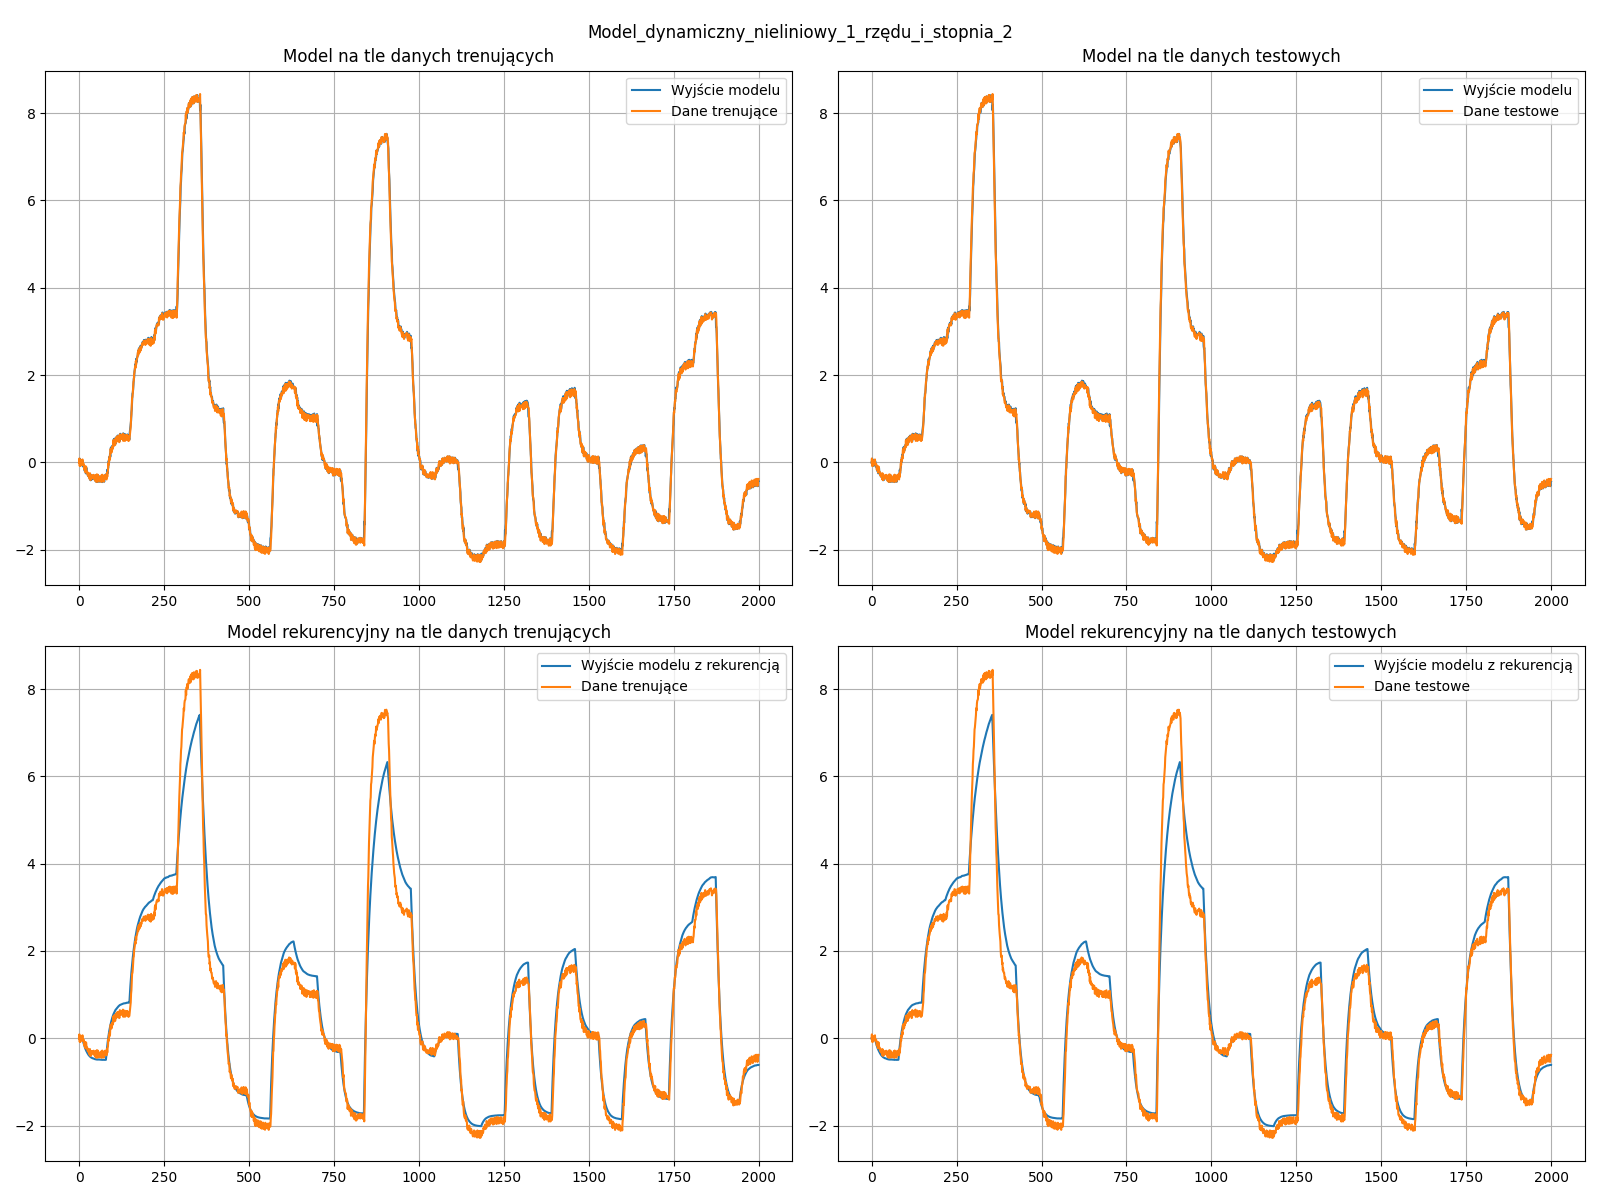
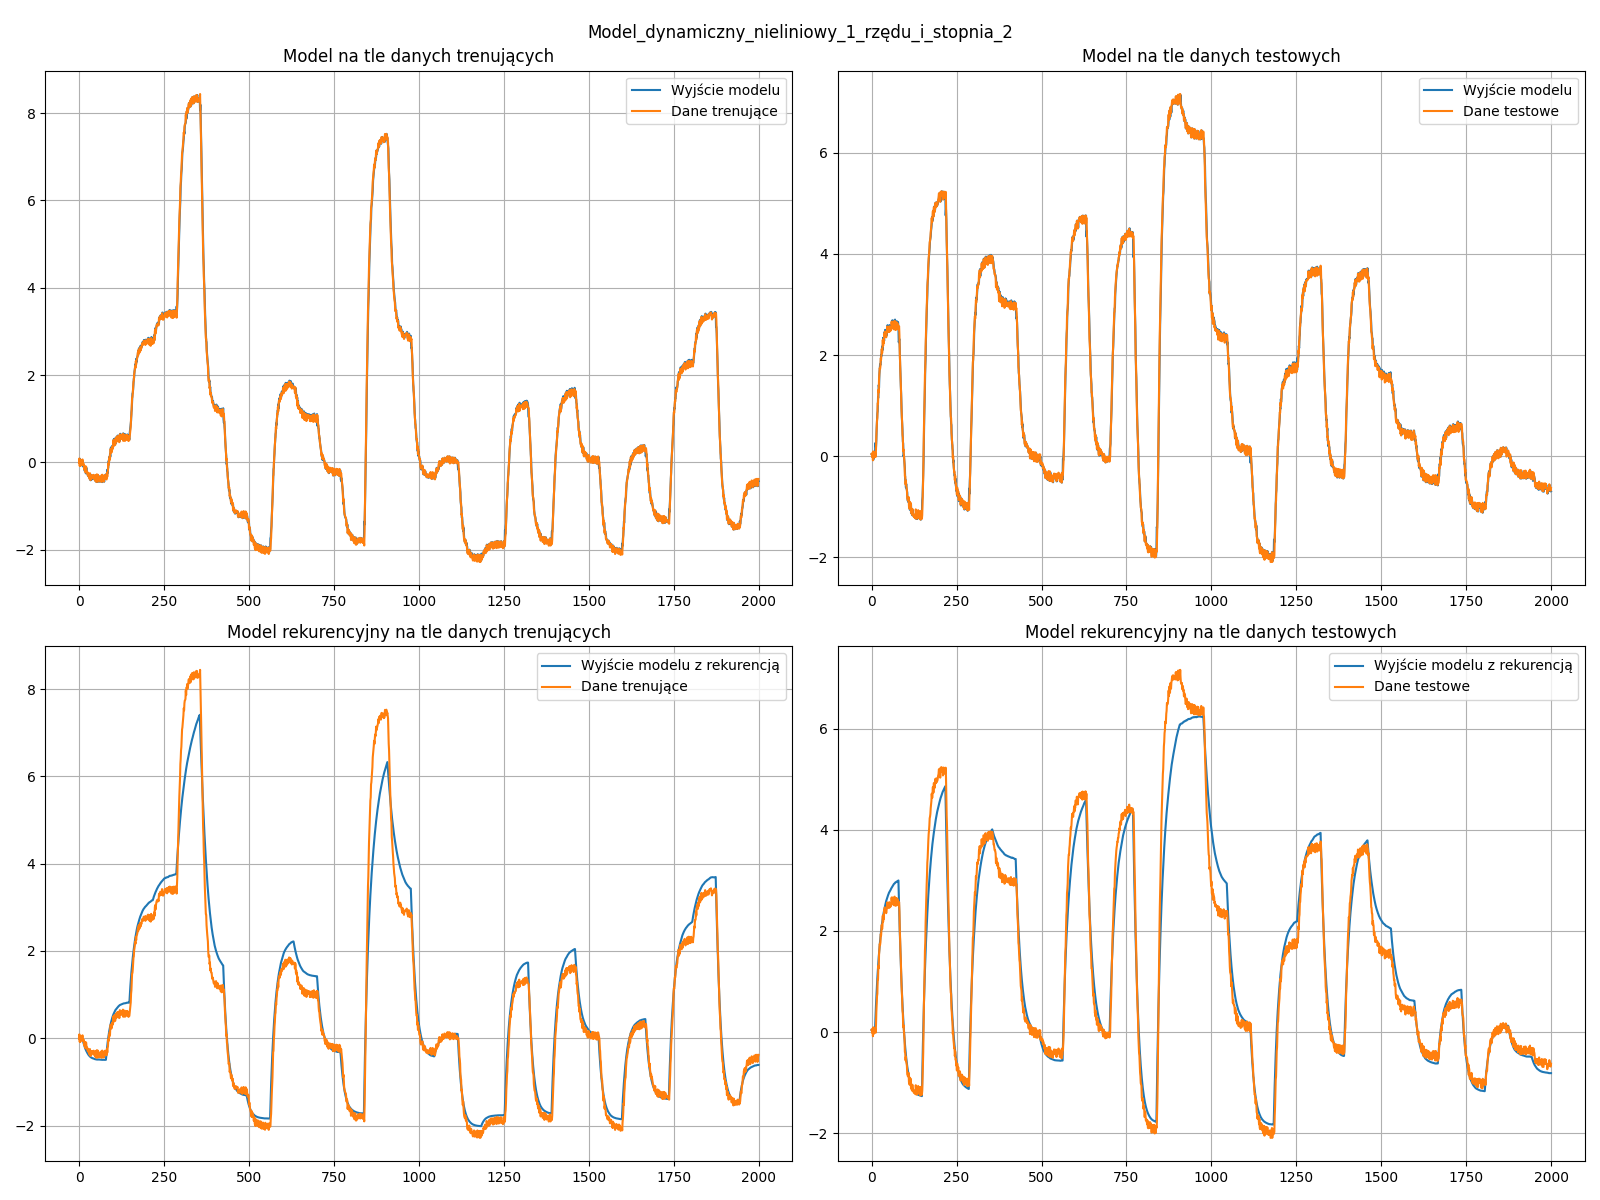
Final version

diff --git a/dodkeras.py b/dodkeras.py
@@ -1,0 +1,80 @@
+from tensorflow.keras.models import Sequential
+from tensorflow.keras.layers import Input, Dense, SimpleRNN, LSTM, LeakyReLU
+from tensorflow.keras.optimizers import Adam
+import numpy as np
+import pandas as pd
+import matplotlib.pyplot as plt
+
+
+
+def create_data(N, data_type, recursive):
+    train_data = pd.read_csv('data/danedynucz18.txt', delimiter=r"\s+", header=None, names=['U', 'Y'])
+    test_data = pd.read_csv('data/danedynwer18.txt', delimiter=r"\s+", header=None, names=['U', 'Y'])
+    data = train_data if data_type else test_data
+    data = np.array(data)
+    input_data = []
+    output_data = []
+    for i in range(N-1, len(data[:, 0])):
+        row = []
+        for j in range(1, N):
+            row.append(data[i - j, 0])  # U data
+            row.append(data[i - j, 1])  # Y data
+        input_data.append(row)
+        output_data.append(data[i, 1])  # Current Y
+    input_data = np.array(input_data)
+    if recursive:
+        input_data = input_data.reshape((input_data.shape[0], N-1, 2))
+    return input_data, np.array(output_data)
+
+def create_model(recursive, k, N):
+    model = Sequential()
+    input_layer = LSTM(k, input_shape=(N-1, 2), activation='leaky_relu') if recursive else Dense(k, input_dim=2 * (N - 1), activation='leaky_relu')
+    model.add(input_layer)
+    model.add(Dense(1, activation='leaky_relu'))
+    return model
+
+
+def neural_network(N, k, recursive):
+    train_data = pd.read_csv('data/danedynucz18.txt', delimiter=r"\s+", header=None, names=['U', 'Y'])
+    test_data = pd.read_csv('data/danedynwer18.txt', delimiter=r"\s+", header=None, names=['U', 'Y'])
+    input_data, output_data = create_data(N, True, recursive)
+    # Model creation
+    model = create_model(recursive, k, N)
+
+    model.compile(optimizer='adam', loss='mean_squared_error')
+    model.fit(input_data, output_data, epochs=100)
+
+    input_data_test, output_data_test = create_data(N, False, recursive)
+
+    predictions_train = model.predict(input_data)
+    predictions_test = model.predict(input_data_test)
+
+    predictions_train = predictions_train.flatten()
+    predictions_test = predictions_test.flatten()
+
+    epsilon_train = round(np.sum((output_data - predictions_train)**2), 3)
+    epsilon_test = round(np.sum((output_data_test - predictions_test)**2), 3)
+
+    recursive_str = 'z rekurencją' if recursive else 'bez rekurencji'
+    plt.figure(figsize=(12, 6))
+    plt.subplot(1, 2, 1)
+    plt.plot(output_data, label='Dane trenujące')
+    plt.plot(predictions_train, label='Model')
+    plt.title(f'Model {recursive_str} - liczba neuronów w warstwie:{k}, dane trenujące')
+    plt.legend()
+    plt.subplot(1, 2, 2)
+    plt.plot(output_data_test, label='Dane testowe')
+    plt.plot(predictions_test, label='Model')
+    plt.title(f'Model {recursive_str}- liczba neuronów w warstwie: {k}, dane testowe')
+    plt.legend()
+    plt.show()
+
+    return epsilon_train, epsilon_test
+
+
+
+neural_network(11, 1, recursive=False)
+neural_network(11, 1, recursive=True)
+neural_network(11, 64, recursive=False)
+neural_network(11, 64, recursive=True)
+

diff --git a/dynamic.py b/dynamic.py
@@ -117,6 +117,30 @@ def initialize_model_outputs(y_train, y_test, degree):
     # plot_split(y_mod_train, y_mod_test, y_mod_rec_train, y_mod_rec_test)
     return y_mod_train, y_mod_rec_train, y_mod_test, y_mod_rec_test
 
+def characteritic_static_model(degree, n_row):
+    u = np.linspace(-1, 1, 1000)
+    columns = create_columns(n_row, degree, u_train, y_train)
+    m_matrix = np.column_stack(columns)
+    w = np.linalg.lstsq(m_matrix, y_train[n_row:], rcond=None)[0]
+    y = [0]  
+    y[:n_row] = y_train[:n_row]
+
+    for i in range(n_row-1, len(u)-1):
+        row = []
+        for j in range(n_row):
+            for k in range(1, degree+1):
+                row.append(u[i-j] ** k)
+                row.append(y[i-j] ** k)
+        temp = sum(w[idx] * value for idx, value in enumerate(row))
+        y.append(temp)
+    plt.figure(1)
+    plt.plot(u,y,linewidth=1.5)
+    plt.grid(True)
+    plt.xlabel("u")
+    plt.ylabel("y")
+    plt.title("Charakterystyka statyczna na podstawie najlepszego modelu dynamicznego")
+    plt.savefig(f'plots/characteristic_static_model_{degree}_{n_row}.png')
+    plt.show()
 
 def calculate_dynamic_errors():
     results = {
@@ -238,13 +262,13 @@ def non_liner_dynamic(n_row, degree):
     epsilon_test = np.sum((y_mod_test - y_test) ** 2)
     epsilon_train_rec = np.sum((y_mod_rec_train - y_train) ** 2)
     epsilon_test_rec = np.sum((y_mod_rec_test - y_test) ** 2)
-
+    
     return epsilon_train, epsilon_test, epsilon_train_rec, epsilon_test_rec 
 
 def calculate_non_linear_errors():
     # degrees = ['drugi', 'trzeci', 'czwarty', 'piąty', 'szósty']
-    degrees  = list(range(9, 10))
-    dynamic_orders = list(range(13, 30))
+    degrees  = list(range(7, 8))
+    dynamic_orders = list(range(13, 36))
 
     columns = pd.MultiIndex.from_product([degrees, dynamic_orders], names=['Stopień:', 'Rząd dyn.'])
 
@@ -273,16 +297,17 @@ def highlight_df(df):
 # linear_dynamic_1_degree()
 # linear_dynamic_2_degree()
 # linear_dynamic_3_degree()
-df_results = calculate_dynamic_errors()
-df_results = df_results.round(3)
-print(df_results)
-df_results.to_csv('results/dynamic_errors.csv', index=False)
-# print(non_liner_dynamic(3,3))
+# df_results = calculate_dynamic_errors()
+# df_results = df_results.round(3)
+# print(df_results)
+# df_results.to_csv('results/dynamic_errors.csv', index=False)
+# print(non_liner_dynamic(12,15))
 # print(non_liner_dynamic(10,10))
 # plot_train_split()
 # plot_test_split()
 # print(calculate_non_linear_errors())
-print(non_liner_dynamic(15, 9))
+# print(non_liner_dynamic(15, 9))
 # df = calculate_non_linear_errors()
 # print(df)
-# df.to_csv('results/non_linear_dynamic_errors_9.csv')
+# df.to_csv('results/non_linear_dynamic_errors_7_high.csv')
+characteritic_static_model(7,11)

diff --git a/polynomial_static.py b/polynomial_static.py
@@ -1,7 +1,7 @@
 import pandas as pd
 import matplotlib.pyplot as plt
 import numpy as np
-from initial import u_train, u_test, y_train, y_test
+from initial import u_train, u_test, y_train, y_test, u_data, y_data
 
 
 def polynomial_train(degree):
@@ -13,6 +13,18 @@ def polynomial_train(degree):
 
     epsilon = np.sum((y_mod_train - y_train)**2)
     epsilon_test = np.sum((y_mod_test - y_test)**2)
+
+    m_matrix_whole_data = np.vstack([u_data**i for i in range(degree + 1)]).T
+    w_whole_data = np.linalg.lstsq(m_matrix_whole_data, y_data, rcond=None)[0]
+    y_mod_whole_data = sum(w_whole_data[i] * u_data**i for i in range(degree + 1))
+
+    plt.figure(figsize=(10, 6))
+    plt.title("Charakterystyka statycznego modelu nieliniowego - wielomian stopnia " + str(degree))
+    plt.scatter(u_data, y_mod_whole_data, color='blue', label='Model statyczny')
+    plt.xlabel('u')
+    plt.ylabel('y')
+    plt.grid(True)
+    plt.savefig(f'plots/polynomial_static_characteristic_{degree}.png')
 
     fig, axs = plt.subplots(1, 2, figsize=(16, 6))
 
@@ -56,4 +68,5 @@ def calculate_polynomial_errors(max_degree):
 
 
 # polynomial_train(15)
-print(calculate_polynomial_errors(15))
+# print(calculate_polynomial_errors(15))
+polynomial_train(2)

diff --git a/linear_static.py b/linear_static.py
@@ -26,6 +26,17 @@ def linear():
     epsilon_test = sum((y_mod_test - y_test) ** 2)
     print(epsilon_test)
 
+    m_matrix_whole_data = np.vstack([np.ones(len(u_data)), u_data]).T
+    w_whole_data = np.linalg.lstsq(m_matrix_whole_data, y_data, rcond=None)[0]
+    y_mod_whole_data = w_whole_data[0] + w_whole_data[1] * u_data
+
+    plt.figure(figsize=(10, 6))
+    plt.title("Charakterystyka statycznego modelu liniowego")
+    plt.scatter(u_data, y_mod_whole_data, color='blue', label='Model statyczny')
+    plt.xlabel('u')
+    plt.ylabel('y')
+    plt.grid(True)
+    plt.savefig('plots/linear_static_characteristic.png')
 
     plt.figure(figsize=(10, 6))
     plt.title("Model statyczny liniowy na tle danych uczących")
